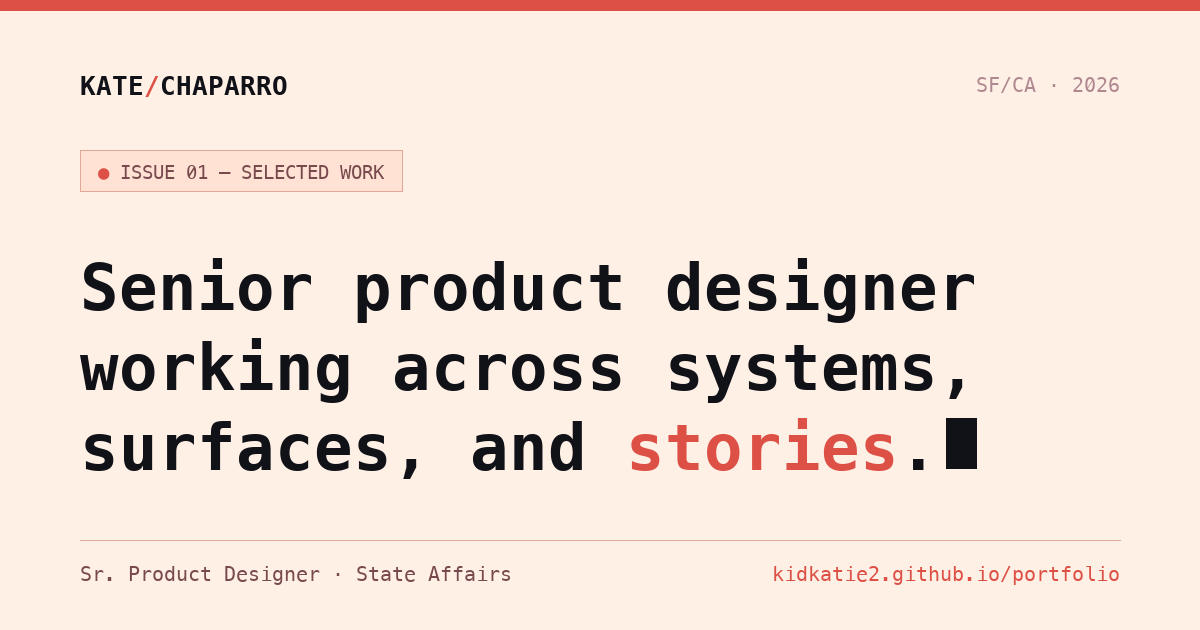
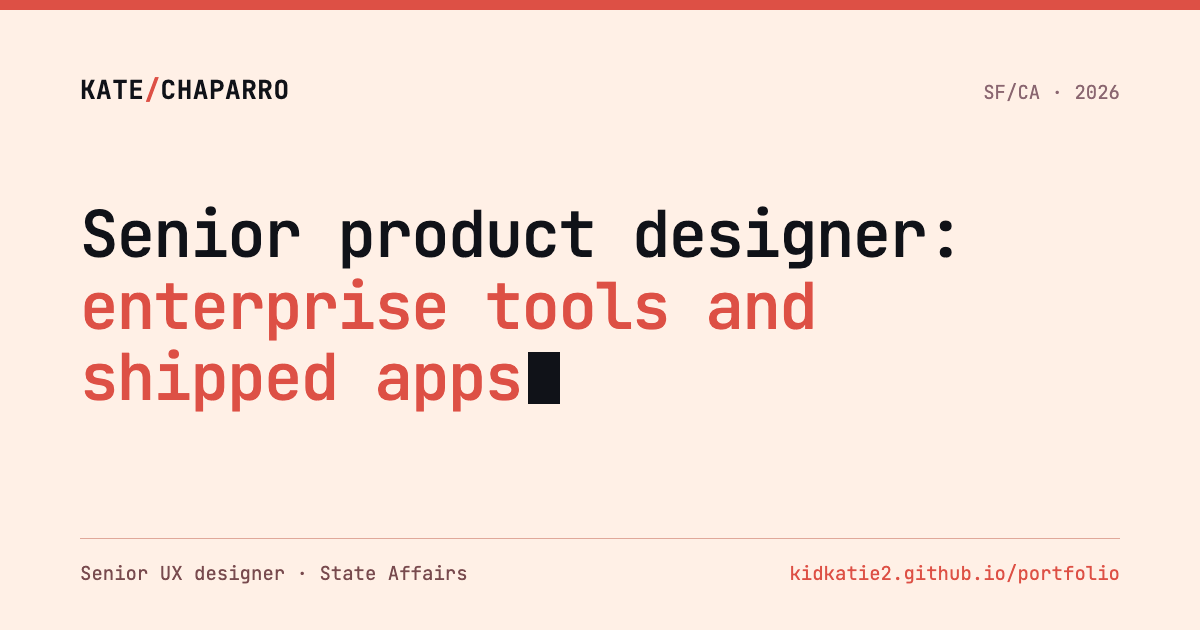
Refresh link preview: new share image and text matching the hero

diff --git a/index.html b/index.html
@@ -4,22 +4,22 @@
 <meta charset="UTF-8">
 <meta name="viewport" content="width=device-width, initial-scale=1.0">
 <title>Kate Chaparro — Senior Product Designer</title>
-<meta name="description" content="Portfolio of Kate Chaparro, senior product designer. Senior UX designer at State Affairs; four iOS apps designed and built solo in 2026.">
+<meta name="description" content="Portfolio of Kate Chaparro, senior product designer. Senior UX designer at State Affairs, designing its AI Chat features. Four iOS apps designed and built solo in 2026.">
 <link rel="icon" href="favicon.svg" type="image/svg+xml">
 <link rel="canonical" href="https://kidkatie2.github.io/portfolio/">
 <meta property="og:type" content="website">
 <meta property="og:site_name" content="Kate Chaparro">
 <meta property="og:title" content="Kate Chaparro — Senior Product Designer">
-<meta property="og:description" content="Senior product designer. Senior UX designer at State Affairs; four iOS apps designed and built solo in 2026.">
+<meta property="og:description" content="Senior UX designer at State Affairs, designing its AI Chat features. Four iOS apps designed and built solo in 2026.">
 <meta property="og:url" content="https://kidkatie2.github.io/portfolio/">
-<meta property="og:image" content="https://kidkatie2.github.io/portfolio/images/og-card.png">
+<meta property="og:image" content="https://kidkatie2.github.io/portfolio/images/og-card.png?v=2">
 <meta property="og:image:width" content="1200">
 <meta property="og:image:height" content="630">
-<meta property="og:image:alt" content="Kate Chaparro — Senior Product Designer">
+<meta property="og:image:alt" content="Kate Chaparro — Senior product designer: enterprise tools and shipped apps">
 <meta name="twitter:card" content="summary_large_image">
 <meta name="twitter:title" content="Kate Chaparro — Senior Product Designer">
-<meta name="twitter:description" content="Senior product designer. Senior UX designer at State Affairs; four iOS apps designed and built solo in 2026.">
-<meta name="twitter:image" content="https://kidkatie2.github.io/portfolio/images/og-card.png">
+<meta name="twitter:description" content="Senior UX designer at State Affairs, designing its AI Chat features. Four iOS apps designed and built solo in 2026.">
+<meta name="twitter:image" content="https://kidkatie2.github.io/portfolio/images/og-card.png?v=2">
 <link rel="preconnect" href="https://fonts.googleapis.com">
 <link rel="preconnect" href="https://fonts.gstatic.com" crossorigin>
 <link href="https://fonts.googleapis.com/css2?family=JetBrains+Mono:wght@400;500;600;700&display=swap" rel="stylesheet">

diff --git a/state-affairs.html b/state-affairs.html
@@ -12,14 +12,14 @@
 <meta property="og:title" content="State Affairs — 50-state legislative tracking">
 <meta property="og:description" content="Two years of product design at State Affairs — features shipped, tools scaled nationwide, and the systems work behind both.">
 <meta property="og:url" content="https://kidkatie2.github.io/portfolio/state-affairs.html">
-<meta property="og:image" content="https://kidkatie2.github.io/portfolio/images/og-card.png">
+<meta property="og:image" content="https://kidkatie2.github.io/portfolio/images/og-card.png?v=2">
 <meta property="og:image:width" content="1200">
 <meta property="og:image:height" content="630">
 <meta property="og:image:alt" content="Kate Chaparro — Senior Product Designer">
 <meta name="twitter:card" content="summary_large_image">
 <meta name="twitter:title" content="State Affairs — 50-state legislative tracking">
 <meta name="twitter:description" content="Two years of product design at State Affairs — features shipped, tools scaled nationwide, and the systems work behind both.">
-<meta name="twitter:image" content="https://kidkatie2.github.io/portfolio/images/og-card.png">
+<meta name="twitter:image" content="https://kidkatie2.github.io/portfolio/images/og-card.png?v=2">
 <link rel="preconnect" href="https://fonts.googleapis.com">
 <link rel="preconnect" href="https://fonts.gstatic.com" crossorigin>
 <link href="https://fonts.googleapis.com/css2?family=Newsreader:ital,opsz,wght@0,6..72,400;0,6..72,500;0,6..72,600;1,6..72,400&family=IBM+Plex+Mono:wght@400;500;600&family=IBM+Plex+Sans:wght@400;500;600&display=swap" rel="stylesheet">

diff --git a/dead/02-gradebook.html b/dead/02-gradebook.html
@@ -12,14 +12,14 @@
 <meta property="og:title" content="The Gradebook — a DEAD! case study" />
 <meta property="og:description" content="A weighted gradebook feature added for professors — weights, calculation, and the empty-category display." />
 <meta property="og:url" content="https://kidkatie2.github.io/portfolio/dead/02-gradebook.html" />
-<meta property="og:image" content="https://kidkatie2.github.io/portfolio/images/og-card.png" />
+<meta property="og:image" content="https://kidkatie2.github.io/portfolio/images/og-card.png?v=2" />
 <meta property="og:image:width" content="1200" />
 <meta property="og:image:height" content="630" />
 <meta property="og:image:alt" content="Kate Chaparro — Senior Product Designer" />
 <meta name="twitter:card" content="summary_large_image" />
 <meta name="twitter:title" content="The Gradebook — a DEAD! case study" />
 <meta name="twitter:description" content="A weighted gradebook feature added for professors — weights, calculation, and the empty-category display." />
-<meta name="twitter:image" content="https://kidkatie2.github.io/portfolio/images/og-card.png" />
+<meta name="twitter:image" content="https://kidkatie2.github.io/portfolio/images/og-card.png?v=2" />
 <link rel="preconnect" href="https://fonts.googleapis.com" />
 <link rel="preconnect" href="https://fonts.gstatic.com" crossorigin />
 <link href="https://fonts.googleapis.com/css2?family=Inter:wght@400;500;600;700;800;900&family=IBM+Plex+Mono:wght@400;500;600&display=swap" rel="stylesheet" />

diff --git a/dead/index.html b/dead/index.html
@@ -12,14 +12,14 @@
 <meta property="og:title" content="DEAD! — Redesigning a mortuary-science learning platform">
 <meta property="og:description" content="A complete redesign across student and instructor experiences — two case studies, shipped as a 6,700-line React prototype.">
 <meta property="og:url" content="https://kidkatie2.github.io/portfolio/dead/">
-<meta property="og:image" content="https://kidkatie2.github.io/portfolio/images/og-card.png">
+<meta property="og:image" content="https://kidkatie2.github.io/portfolio/images/og-card.png?v=2">
 <meta property="og:image:width" content="1200">
 <meta property="og:image:height" content="630">
 <meta property="og:image:alt" content="Kate Chaparro — Senior Product Designer">
 <meta name="twitter:card" content="summary_large_image">
 <meta name="twitter:title" content="DEAD! — Redesigning a mortuary-science learning platform">
 <meta name="twitter:description" content="A complete redesign across student and instructor experiences — two case studies, shipped as a 6,700-line React prototype.">
-<meta name="twitter:image" content="https://kidkatie2.github.io/portfolio/images/og-card.png">
+<meta name="twitter:image" content="https://kidkatie2.github.io/portfolio/images/og-card.png?v=2">
 <link rel="preconnect" href="https://fonts.googleapis.com">
 <link rel="preconnect" href="https://fonts.gstatic.com" crossorigin>
 <link href="https://fonts.googleapis.com/css2?family=JetBrains+Mono:wght@400;500;600;700&display=swap" rel="stylesheet">

diff --git a/gratuity.html b/gratuity.html
@@ -12,14 +12,14 @@
 <meta property="og:title" content="Gratuity — a brutalist tip calculator">
 <meta property="og:description" content="Designed, built, and shipped solo to the App Store: paper-on-ink typography, four themes, a Home Screen widget, and zero network requests.">
 <meta property="og:url" content="https://kidkatie2.github.io/portfolio/gratuity.html">
-<meta property="og:image" content="https://kidkatie2.github.io/portfolio/images/og-card.png">
+<meta property="og:image" content="https://kidkatie2.github.io/portfolio/images/og-card.png?v=2">
 <meta property="og:image:width" content="1200">
 <meta property="og:image:height" content="630">
 <meta property="og:image:alt" content="Kate Chaparro — Senior Product Designer">
 <meta name="twitter:card" content="summary_large_image">
 <meta name="twitter:title" content="Gratuity — a brutalist tip calculator">
 <meta name="twitter:description" content="Designed, built, and shipped solo to the App Store: paper-on-ink typography, four themes, a Home Screen widget, and zero network requests.">
-<meta name="twitter:image" content="https://kidkatie2.github.io/portfolio/images/og-card.png">
+<meta name="twitter:image" content="https://kidkatie2.github.io/portfolio/images/og-card.png?v=2">
 <link rel="preconnect" href="https://fonts.googleapis.com">
 <link rel="preconnect" href="https://fonts.gstatic.com" crossorigin>
 <link href="https://fonts.googleapis.com/css2?family=JetBrains+Mono:wght@400;500;600;700&display=swap" rel="stylesheet">

diff --git a/dead/03-spec.html b/dead/03-spec.html
@@ -13,14 +13,14 @@
 <meta property="og:title" content="The Spec — a DEAD! case study" />
 <meta property="og:description" content="Treating the spec itself as a design deliverable — the artifact that became engineering's source of truth." />
 <meta property="og:url" content="https://kidkatie2.github.io/portfolio/dead/03-spec.html" />
-<meta property="og:image" content="https://kidkatie2.github.io/portfolio/images/og-card.png" />
+<meta property="og:image" content="https://kidkatie2.github.io/portfolio/images/og-card.png?v=2" />
 <meta property="og:image:width" content="1200" />
 <meta property="og:image:height" content="630" />
 <meta property="og:image:alt" content="Kate Chaparro — Senior Product Designer" />
 <meta name="twitter:card" content="summary_large_image" />
 <meta name="twitter:title" content="The Spec — a DEAD! case study" />
 <meta name="twitter:description" content="Treating the spec itself as a design deliverable — the artifact that became engineering's source of truth." />
-<meta name="twitter:image" content="https://kidkatie2.github.io/portfolio/images/og-card.png" />
+<meta name="twitter:image" content="https://kidkatie2.github.io/portfolio/images/og-card.png?v=2" />
 <link rel="preconnect" href="https://fonts.googleapis.com" />
 <link rel="preconnect" href="https://fonts.gstatic.com" crossorigin />
 <link href="https://fonts.googleapis.com/css2?family=Inter:wght@400;500;600;700;800;900&family=IBM+Plex+Mono:wght@400;500;600&display=swap" rel="stylesheet" />

diff --git a/caltrain.html b/caltrain.html
@@ -12,14 +12,14 @@
 <meta property="og:title" content="My Caltrain — a live Caltrain commute app">
 <meta property="og:description" content="My Caltrain, an iOS app for live Caltrain departures, a map of running trains, and the full timetable. Designed and built solo.">
 <meta property="og:url" content="https://kidkatie2.github.io/portfolio/caltrain.html">
-<meta property="og:image" content="https://kidkatie2.github.io/portfolio/images/og-card.png">
+<meta property="og:image" content="https://kidkatie2.github.io/portfolio/images/og-card.png?v=2">
 <meta property="og:image:width" content="1200">
 <meta property="og:image:height" content="630">
 <meta property="og:image:alt" content="Kate Chaparro — Senior Product Designer">
 <meta name="twitter:card" content="summary_large_image">
 <meta name="twitter:title" content="My Caltrain — a live Caltrain commute app">
 <meta name="twitter:description" content="My Caltrain, an iOS app for live Caltrain departures, a map of running trains, and the full timetable. Designed and built solo.">
-<meta name="twitter:image" content="https://kidkatie2.github.io/portfolio/images/og-card.png">
+<meta name="twitter:image" content="https://kidkatie2.github.io/portfolio/images/og-card.png?v=2">
 <link rel="preconnect" href="https://fonts.googleapis.com">
 <link rel="preconnect" href="https://fonts.gstatic.com" crossorigin>
 <link href="https://fonts.googleapis.com/css2?family=JetBrains+Mono:wght@400;500;600;700&display=swap" rel="stylesheet">

diff --git a/dead/01-two-perspectives.html b/dead/01-two-perspectives.html
@@ -12,14 +12,14 @@
 <meta property="og:title" content="The Redesign — a DEAD! case study" />
 <meta property="og:description" content="The entire system redesigned for students and professors, shipped as one React prototype." />
 <meta property="og:url" content="https://kidkatie2.github.io/portfolio/dead/01-two-perspectives.html" />
-<meta property="og:image" content="https://kidkatie2.github.io/portfolio/images/og-card.png" />
+<meta property="og:image" content="https://kidkatie2.github.io/portfolio/images/og-card.png?v=2" />
 <meta property="og:image:width" content="1200" />
 <meta property="og:image:height" content="630" />
 <meta property="og:image:alt" content="Kate Chaparro — Senior Product Designer" />
 <meta name="twitter:card" content="summary_large_image" />
 <meta name="twitter:title" content="The Redesign — a DEAD! case study" />
 <meta name="twitter:description" content="The entire system redesigned for students and professors, shipped as one React prototype." />
-<meta name="twitter:image" content="https://kidkatie2.github.io/portfolio/images/og-card.png" />
+<meta name="twitter:image" content="https://kidkatie2.github.io/portfolio/images/og-card.png?v=2" />
 <link rel="preconnect" href="https://fonts.googleapis.com" />
 <link rel="preconnect" href="https://fonts.gstatic.com" crossorigin />
 <link href="https://fonts.googleapis.com/css2?family=Inter:wght@400;500;600;700;800;900&family=IBM+Plex+Mono:wght@400;500;600&display=swap" rel="stylesheet" />

diff --git a/anubis.html b/anubis.html
@@ -12,14 +12,14 @@
 <meta property="og:title" content="Anubis Law — state law exam prep">
 <meta property="og:description" content="Anubis Law, exam prep for the state law portion of the funeral service licensing exam. Product design for Anubis Publications.">
 <meta property="og:url" content="https://kidkatie2.github.io/portfolio/anubis.html">
-<meta property="og:image" content="https://kidkatie2.github.io/portfolio/images/og-card.png">
+<meta property="og:image" content="https://kidkatie2.github.io/portfolio/images/og-card.png?v=2">
 <meta property="og:image:width" content="1200">
 <meta property="og:image:height" content="630">
 <meta property="og:image:alt" content="Kate Chaparro — Senior Product Designer">
 <meta name="twitter:card" content="summary_large_image">
 <meta name="twitter:title" content="Anubis Law — state law exam prep">
 <meta name="twitter:description" content="Anubis Law, exam prep for the state law portion of the funeral service licensing exam. Product design for Anubis Publications.">
-<meta name="twitter:image" content="https://kidkatie2.github.io/portfolio/images/og-card.png">
+<meta name="twitter:image" content="https://kidkatie2.github.io/portfolio/images/og-card.png?v=2">
 <link rel="preconnect" href="https://fonts.googleapis.com">
 <link rel="preconnect" href="https://fonts.gstatic.com" crossorigin>
 <link href="https://fonts.googleapis.com/css2?family=JetBrains+Mono:wght@400;500;600;700&display=swap" rel="stylesheet">

diff --git a/elapsed.html b/elapsed.html
@@ -12,14 +12,14 @@
 <meta property="og:title" content="Elapsed — progress widgets">
 <meta property="og:description" content="Elapsed, iOS progress widgets for the day, week, year, life, or a countdown. Designed and built solo.">
 <meta property="og:url" content="https://kidkatie2.github.io/portfolio/elapsed.html">
-<meta property="og:image" content="https://kidkatie2.github.io/portfolio/images/og-card.png">
+<meta property="og:image" content="https://kidkatie2.github.io/portfolio/images/og-card.png?v=2">
 <meta property="og:image:width" content="1200">
 <meta property="og:image:height" content="630">
 <meta property="og:image:alt" content="Kate Chaparro — Senior Product Designer">
 <meta name="twitter:card" content="summary_large_image">
 <meta name="twitter:title" content="Elapsed — progress widgets">
 <meta name="twitter:description" content="Elapsed, iOS progress widgets for the day, week, year, life, or a countdown. Designed and built solo.">
-<meta name="twitter:image" content="https://kidkatie2.github.io/portfolio/images/og-card.png">
+<meta name="twitter:image" content="https://kidkatie2.github.io/portfolio/images/og-card.png?v=2">
 <link rel="preconnect" href="https://fonts.googleapis.com">
 <link rel="preconnect" href="https://fonts.gstatic.com" crossorigin>
 <link href="https://fonts.googleapis.com/css2?family=JetBrains+Mono:wght@400;500;600;700&display=swap" rel="stylesheet">

diff --git a/verso.html b/verso.html
@@ -12,14 +12,14 @@
 <meta property="og:title" content="Verso — an iOS reading app">
 <meta property="og:description" content="A reader for AO3 works and EPUBs with word-synced narration. Built in SwiftUI for iPhone.">
 <meta property="og:url" content="https://kidkatie2.github.io/portfolio/verso.html">
-<meta property="og:image" content="https://kidkatie2.github.io/portfolio/images/og-card.png">
+<meta property="og:image" content="https://kidkatie2.github.io/portfolio/images/og-card.png?v=2">
 <meta property="og:image:width" content="1200">
 <meta property="og:image:height" content="630">
 <meta property="og:image:alt" content="Kate Chaparro — Senior Product Designer">
 <meta name="twitter:card" content="summary_large_image">
 <meta name="twitter:title" content="Verso — an iOS reading app">
 <meta name="twitter:description" content="A reader for AO3 works and EPUBs with word-synced narration. Built in SwiftUI for iPhone.">
-<meta name="twitter:image" content="https://kidkatie2.github.io/portfolio/images/og-card.png">
+<meta name="twitter:image" content="https://kidkatie2.github.io/portfolio/images/og-card.png?v=2">
 <link rel="preconnect" href="https://fonts.googleapis.com">
 <link rel="preconnect" href="https://fonts.gstatic.com" crossorigin>
 <link href="https://fonts.googleapis.com/css2?family=JetBrains+Mono:wght@400;500;600;700&display=swap" rel="stylesheet">
